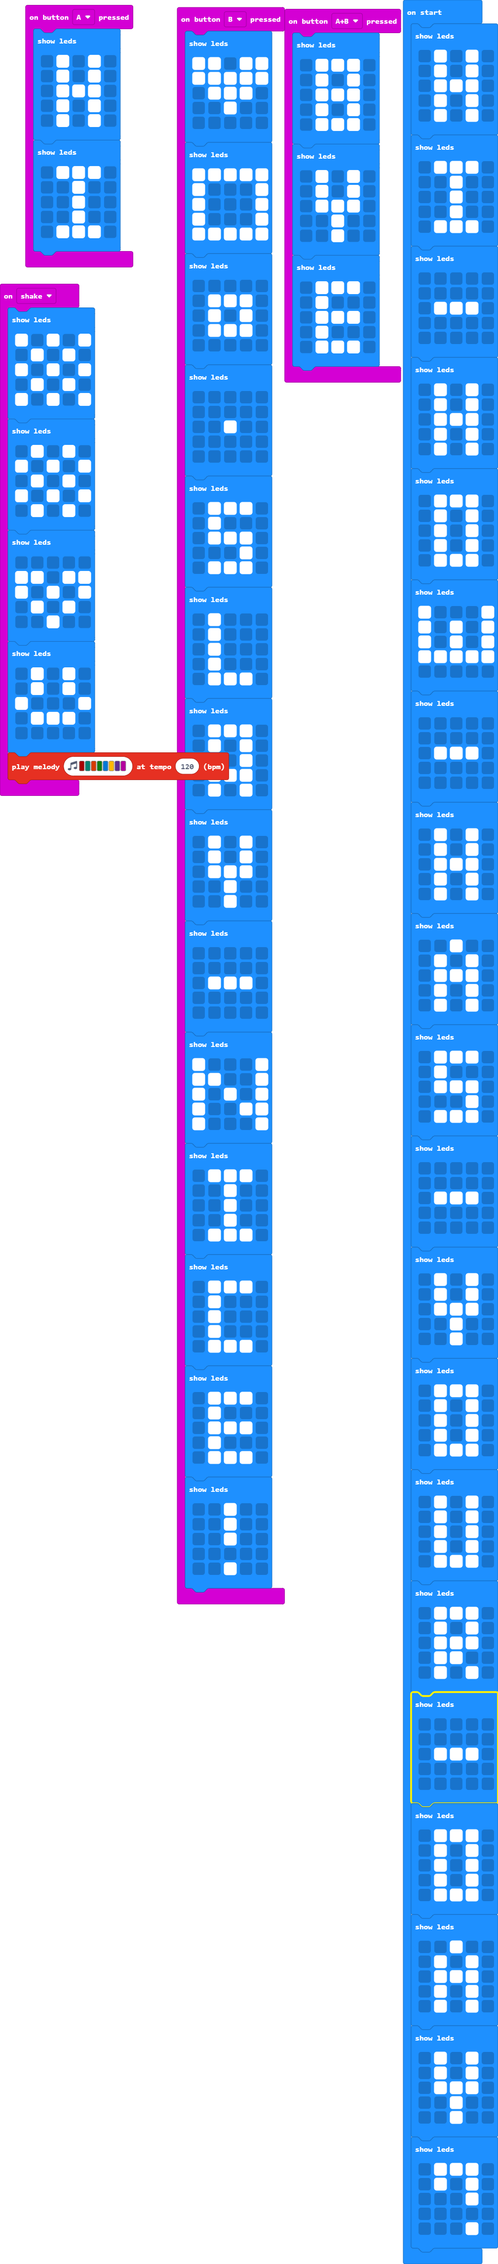
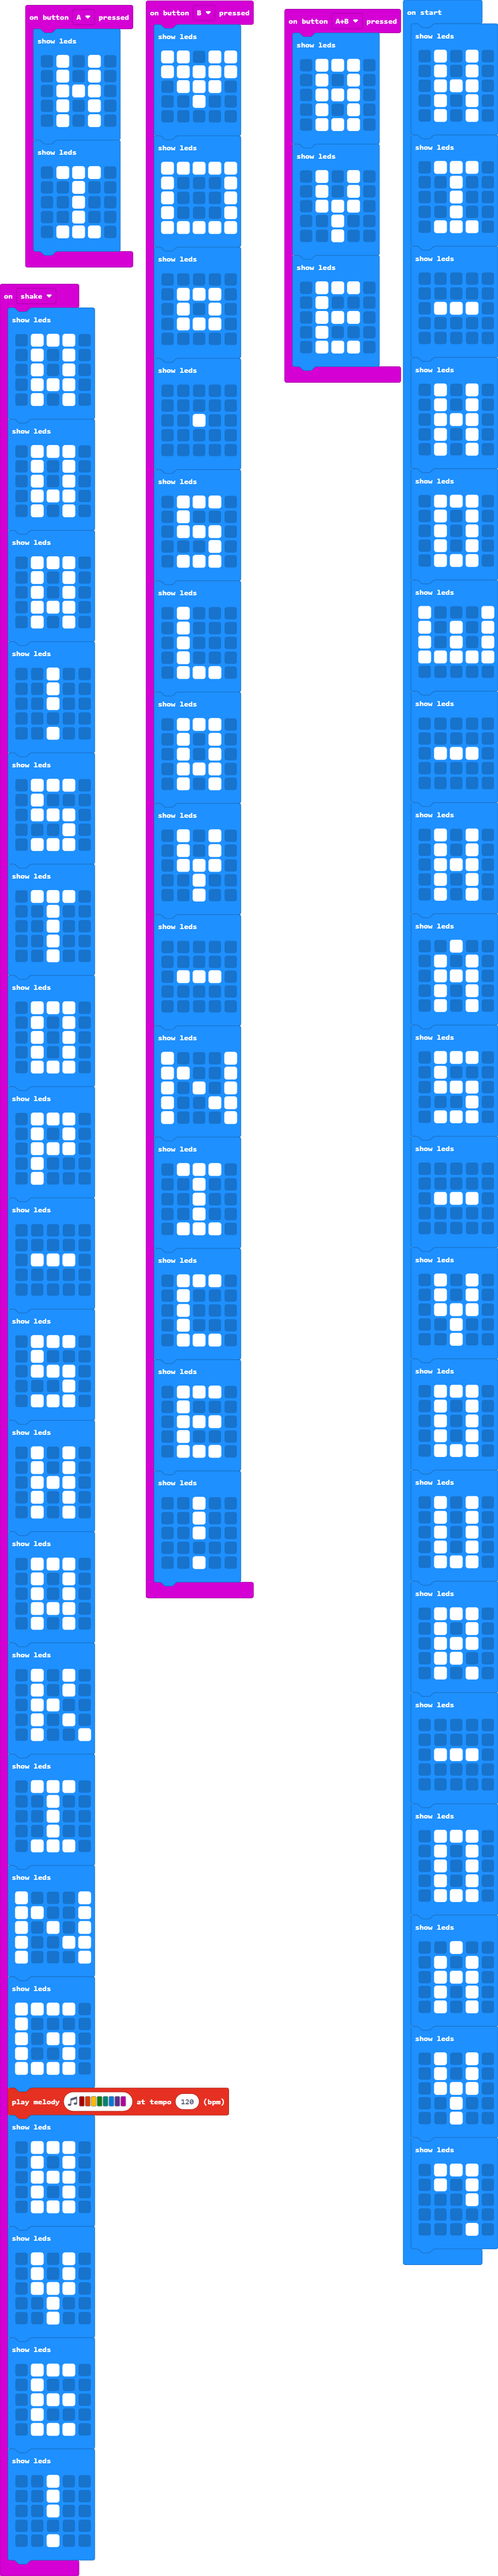
Update main.blocks, main.ts

diff --git a/main.ts b/main.ts
@@ -139,34 +139,146 @@ input.onButtonPressed(Button.B, function () {
 })
 input.onGesture(Gesture.Shake, function () {
     basic.showLeds(`
-        # . # . #
+        . # # # .
         . # . # .
-        # . # . #
         . # . # .
-        # . # . #
-        `)
-    basic.showLeds(`
-        . # . # .
-        # . # . #
-        . # . # .
-        # . # . #
+        . # # # .
         . # . # .
         `)
     basic.showLeds(`
+        . # # # .
+        . # . # .
+        . # . # .
+        . # # # .
+        . # . # .
+        `)
+    basic.showLeds(`
+        . # # # .
+        . # . # .
+        . # . # .
+        . # # # .
+        . # . # .
+        `)
+    basic.showLeds(`
+        . . # . .
+        . . # . .
+        . . # . .
         . . . . .
-        # # . # #
-        # . # . #
-        . # . # .
         . . # . .
         `)
     basic.showLeds(`
+        . # # # .
+        . # . . .
+        . # # # .
+        . . . # .
+        . # # # .
+        `)
+    basic.showLeds(`
+        . # # # .
+        . . # . .
+        . . # . .
+        . . # . .
+        . . # . .
+        `)
+    basic.showLeds(`
+        . # # # .
         . # . # .
         . # . # .
-        # . . . #
+        . # . # .
+        . # # # .
+        `)
+    basic.showLeds(`
+        . # # # .
+        . # . # .
+        . # # # .
+        . # . . .
+        . # . . .
+        `)
+    basic.showLeds(`
+        . . . . .
+        . . . . .
         . # # # .
         . . . . .
+        . . . . .
         `)
-    music.playMelody("C5 F B G E A D C ", 120)
+    basic.showLeds(`
+        . # # # .
+        . # . . .
+        . # # # .
+        . . . # .
+        . # # # .
+        `)
+    basic.showLeds(`
+        . # . # .
+        . # . # .
+        . # # # .
+        . # . # .
+        . # . # .
+        `)
+    basic.showLeds(`
+        . # # # .
+        . # . # .
+        . # . # .
+        . # # # .
+        . # . # .
+        `)
+    basic.showLeds(`
+        . # . # .
+        . # . # .
+        . # # . .
+        . # . # .
+        . # . . #
+        `)
+    basic.showLeds(`
+        . # # # .
+        . . # . .
+        . . # . .
+        . . # . .
+        . # # # .
+        `)
+    basic.showLeds(`
+        # . . . #
+        # # . . #
+        # . # . #
+        # . . # #
+        # . . . #
+        `)
+    basic.showLeds(`
+        # # # # .
+        # . . . .
+        # . # # .
+        # . . # .
+        # # # # .
+        `)
+    music.playMelody("C5 B A G F E D C ", 120)
+    basic.showLeds(`
+        . # # # .
+        . # . # .
+        . # # # .
+        . # . # .
+        . # # # .
+        `)
+    basic.showLeds(`
+        . # . # .
+        . # . # .
+        . # # # .
+        . . # . .
+        . . # . .
+        `)
+    basic.showLeds(`
+        . # # # .
+        . # . . .
+        . # # # .
+        . # . . .
+        . # # # .
+        `)
+    basic.showLeds(`
+        . . # . .
+        . . # . .
+        . . # . .
+        . . . . .
+        . . # . .
+        `)
 })
 basic.showLeds(`
     . # . # .
